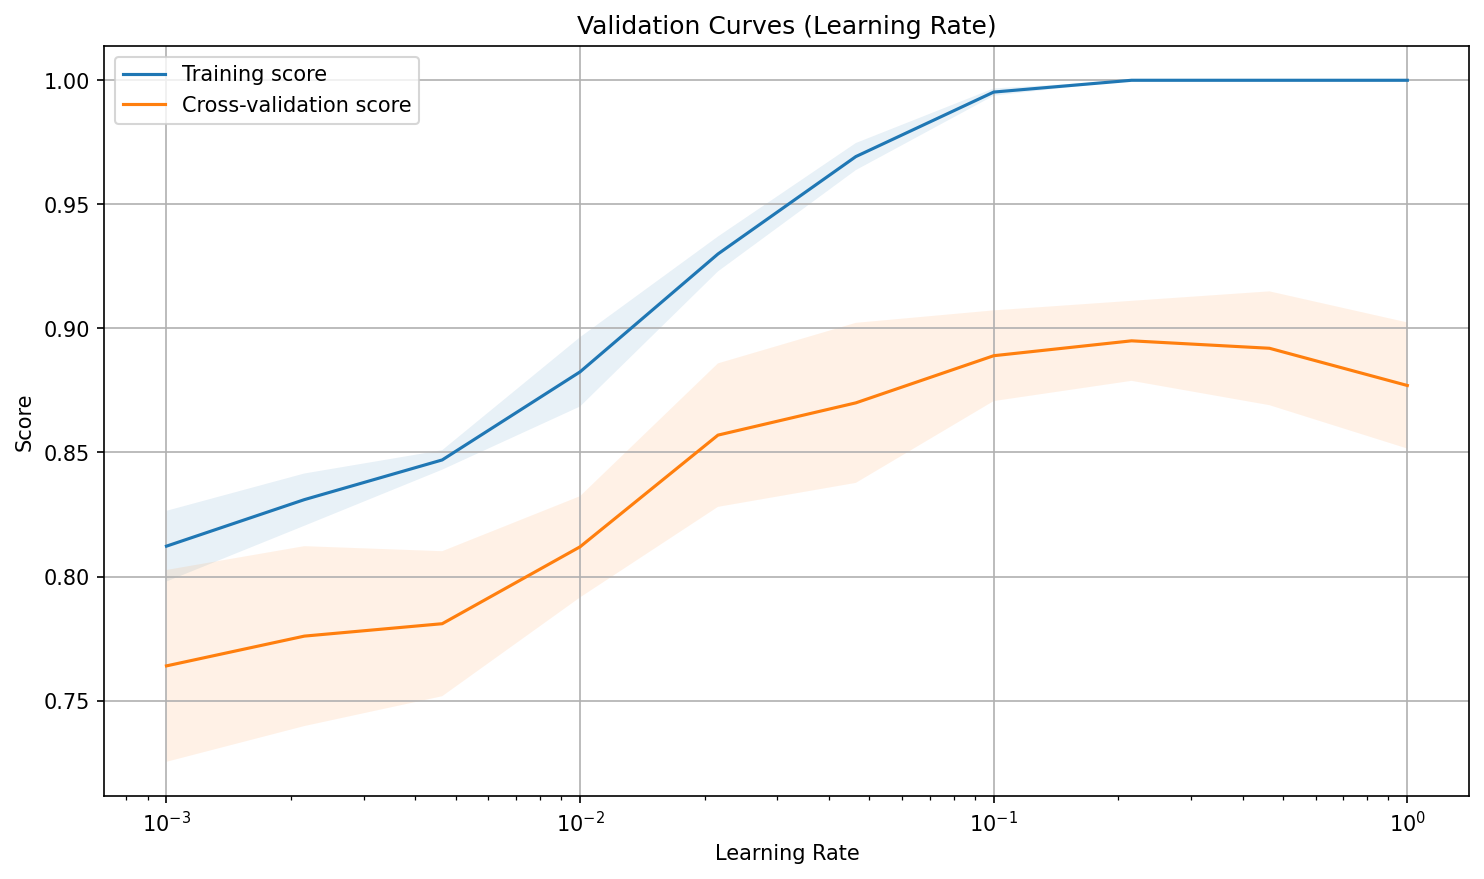
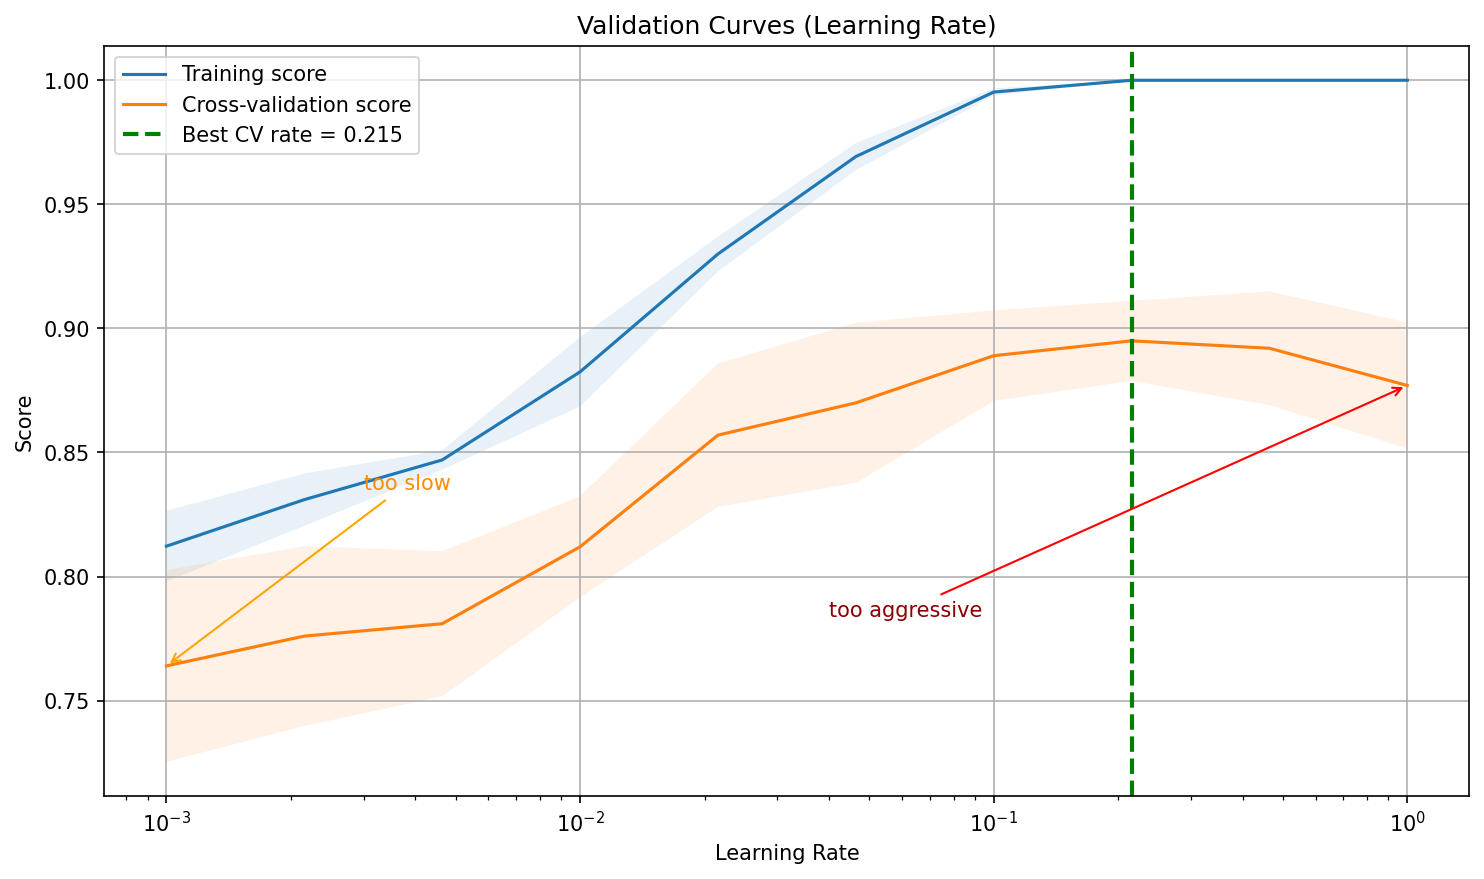
Add visual markers to model evaluation charts

diff --git a/docs/5-ml-fundamentals/5.5-model-eval/generate_model_selection_outputs.py b/docs/5-ml-fundamentals/5.5-model-eval/generate_model_selection_outputs.py
@@ -62,6 +62,11 @@ def plot_decision_boundary(model, X, y, filename):
     plt.figure(figsize=(10, 8))
     plt.contourf(xx, yy, Z, alpha=0.4, cmap='RdYlBu')
     scatter = plt.scatter(X_2d[:, 0], X_2d[:, 1], c=y, alpha=0.8, cmap='RdYlBu', edgecolors='black')
+    plt.annotate('straight boundary\n(linear model limit)', xy=(0.55, 0.55),
+                 xycoords='axes fraction', xytext=(0.08, 0.88),
+                 textcoords='axes fraction',
+                 arrowprops=dict(arrowstyle='->', color='black'),
+                 bbox=dict(boxstyle='round,pad=0.3', fc='white', alpha=0.85))
     plt.xlabel('Feature 1')
     plt.ylabel('Feature 2')
     plt.title('Linear Model Decision Boundary')
@@ -90,11 +95,18 @@ def plot_feature_importance(model, feature_names, filename):
     plt.title('Feature Importance (Random Forest)', fontsize=14, fontweight='bold')
     bars = plt.bar(range(len(importances)), importances[indices], 
                    color='skyblue', edgecolor='navy', alpha=0.7)
+    bars[0].set_color('tab:green')
+    plt.axhline(0.05, color='gray', linestyle='--', linewidth=1,
+                label='Low-importance guide')
+    plt.annotate('top feature', xy=(0, importances[indices][0]),
+                 xytext=(1.2, importances[indices][0] - 0.018),
+                 arrowprops=dict(arrowstyle='->', color='green'), color='darkgreen')
     plt.xticks(range(len(importances)), 
                [f'Feature {i+1}' for i in indices], 
                rotation=45, ha='right')
     plt.xlabel('Features')
     plt.ylabel('Importance')
+    plt.legend()
     plt.grid(True, alpha=0.3, axis='y')
     
     # Add value labels on bars
@@ -135,6 +147,12 @@ def plot_learning_curve(model, X, y, filename):
     plt.plot(train_sizes, val_mean, 'o-', label='Cross-validation score', color='red', linewidth=2)
     plt.fill_between(train_sizes, train_mean - train_std, train_mean + train_std, alpha=0.2, color='blue')
     plt.fill_between(train_sizes, val_mean - val_std, val_mean + val_std, alpha=0.2, color='red')
+    final_gap = train_mean[-1] - val_mean[-1]
+    plt.scatter([train_sizes[-1]], [train_mean[-1]], color='red', s=60, zorder=5)
+    plt.scatter([train_sizes[-1]], [val_mean[-1]], color='red', s=60, zorder=5)
+    plt.annotate(f'final gap ≈ {final_gap:.2f}', xy=(train_sizes[-1], val_mean[-1]),
+                 xytext=(train_sizes[-4], val_mean[-1] - 0.08),
+                 arrowprops=dict(arrowstyle='->', color='red'), color='darkred')
     plt.xlabel('Training Examples')
     plt.ylabel('Score')
     plt.title('Learning Curve - Neural Network')
@@ -162,10 +180,17 @@ def compare_models(models, X_train, X_test, y_train, y_test, filename):
     bars = plt.bar(list(results.keys()), list(results.values()), 
                    color=['lightblue', 'lightgreen', 'lightcoral'],
                    edgecolor='black', alpha=0.8)
+    best_name = max(results, key=results.get)
+    for bar, name in zip(bars, results.keys()):
+        if name == best_name:
+            bar.set_color('tab:green')
+    plt.axhline(results[best_name], color='green', linestyle='--', linewidth=2,
+                label=f'Selected: {best_name}')
     plt.xlabel('Model')
     plt.ylabel('Accuracy')
     plt.title('Model Comparison', fontsize=14, fontweight='bold')
     plt.xticks(rotation=0)
+    plt.legend()
     plt.grid(True, alpha=0.3, axis='y')
     
     # Add value labels on bars
@@ -269,6 +294,13 @@ def model_selection_process(X, y):
         axes[idx].plot(train_sizes, val_mean, 'o-', label='Cross-validation score', color='red')
         axes[idx].fill_between(train_sizes, train_mean - train_std, train_mean + train_std, alpha=0.2, color='blue')
         axes[idx].fill_between(train_sizes, val_mean - val_std, val_mean + val_std, alpha=0.2, color='red')
+        final_gap = train_mean[-1] - val_mean[-1]
+        axes[idx].scatter([train_sizes[-1]], [train_mean[-1]], color='red', s=40, zorder=5)
+        axes[idx].scatter([train_sizes[-1]], [val_mean[-1]], color='red', s=40, zorder=5)
+        axes[idx].annotate(f'gap {final_gap:.2f}', xy=(train_sizes[-1], val_mean[-1]),
+                           xytext=(train_sizes[-5], val_mean[-1] - 0.08),
+                           arrowprops=dict(arrowstyle='->', color='red'),
+                           color='darkred', fontsize=8)
         axes[idx].set_xlabel('Training Examples')
         axes[idx].set_ylabel('Score')
         axes[idx].set_title(f'Learning Curve - {name}')

diff --git a/docs/5-ml-fundamentals/5.5-model-eval/generate_visualizations.py b/docs/5-ml-fundamentals/5.5-model-eval/generate_visualizations.py
@@ -133,9 +133,17 @@ def generate_hp_tuning_visualizations():
 
     plt.figure(figsize=(10, 6))
     plt.plot(param_range, grid_scores, "bo-", alpha=0.6)
+    best_idx = np.argmax(grid_scores)
+    plt.axvline(param_range[best_idx], color="green", linestyle="--", linewidth=2,
+                label=f"Best grid value = {param_range[best_idx]:.2f}")
+    plt.scatter(param_range[best_idx], grid_scores[best_idx], s=120, color="green", zorder=5)
+    plt.annotate("best tried point", xy=(param_range[best_idx], grid_scores[best_idx]),
+                 xytext=(param_range[best_idx] + 1.0, grid_scores[best_idx] - 0.15),
+                 arrowprops=dict(arrowstyle="->", color="green"), color="darkgreen")
     plt.xlabel("Hyperparameter Value")
     plt.ylabel("Validation Score")
     plt.title("Grid Search Results")
+    plt.legend()
     plt.grid(True)
     plt.tight_layout()
     plt.savefig("assets/grid_search_results.png")
@@ -150,9 +158,16 @@ def generate_hp_tuning_visualizations():
 
     plt.figure(figsize=(10, 6))
     plt.scatter(random_params, random_scores, c="red", alpha=0.6)
+    best_idx = np.argmax(random_scores)
+    plt.scatter(random_params[best_idx], random_scores[best_idx], s=140,
+                color="green", edgecolor="black", zorder=5, label="Best sampled point")
+    plt.annotate("best random draw", xy=(random_params[best_idx], random_scores[best_idx]),
+                 xytext=(random_params[best_idx] + 1.0, random_scores[best_idx] - 0.18),
+                 arrowprops=dict(arrowstyle="->", color="green"), color="darkgreen")
     plt.xlabel("Hyperparameter Value")
     plt.ylabel("Validation Score")
     plt.title("Random Search Results")
+    plt.legend()
     plt.grid(True)
     plt.tight_layout()
     plt.savefig("assets/random_search_results.png")
@@ -170,6 +185,12 @@ def generate_hp_tuning_visualizations():
         x, mean - 2 * std, mean + 2 * std, color="b", alpha=0.2, label="Uncertainty"
     )
     plt.scatter(x[::10], mean[::10], c="red", alpha=0.6, label="Observations")
+    next_idx = np.argmax(mean + 2 * std)
+    plt.axvline(x[next_idx], color="green", linestyle="--", linewidth=2,
+                label="Next promising trial")
+    plt.annotate("exploit high mean\n+ uncertainty", xy=(x[next_idx], mean[next_idx]),
+                 xytext=(x[next_idx] + 1.0, mean[next_idx] - 0.25),
+                 arrowprops=dict(arrowstyle="->", color="green"), color="darkgreen")
     plt.xlabel("Hyperparameter Value")
     plt.ylabel("Objective")
     plt.title("Bayesian Optimization")

diff --git a/docs/5-ml-fundamentals/5.5-model-eval/validation-curves.md b/docs/5-ml-fundamentals/5.5-model-eval/validation-curves.md
@@ -70,6 +70,17 @@ plt.plot(param_range, train_mean, label='Training score')
 plt.plot(param_range, val_mean, label='Cross-validation score')
 plt.fill_between(param_range, train_mean - train_std, train_mean + train_std, alpha=0.1)
 plt.fill_between(param_range, val_mean - val_std, val_mean + val_std, alpha=0.1)
+best_idx = np.argmax(val_mean)
+best_depth = param_range[best_idx]
+plt.axvline(best_depth, color='green', linestyle='--', linewidth=2,
+            label=f'Best CV depth = {best_depth}')
+plt.axvspan(param_range[0], best_depth - 0.5, color='orange', alpha=0.08)
+plt.axvspan(best_depth + 0.5, param_range[-1], color='red', alpha=0.06)
+plt.annotate('underfit region', xy=(1.4, val_mean[0]), xytext=(1.2, val_mean.max() - 0.08),
+             arrowprops=dict(arrowstyle='->', color='orange'), color='darkorange')
+plt.annotate('large train-CV gap', xy=(param_range[-1], val_mean[-1]),
+             xytext=(param_range[-4], val_mean.min() + 0.02),
+             arrowprops=dict(arrowstyle='->', color='red'), color='darkred')
 plt.xlabel('Max Depth')
 plt.ylabel('Score')
 plt.title('Validation Curves (Model Complexity)')
@@ -140,6 +151,16 @@ plt.semilogx(param_range, train_mean, label='Training score')
 plt.semilogx(param_range, val_mean, label='Cross-validation score')
 plt.fill_between(param_range, train_mean - train_std, train_mean + train_std, alpha=0.1)
 plt.fill_between(param_range, val_mean - val_std, val_mean + val_std, alpha=0.1)
+best_idx = np.argmax(val_mean)
+best_c = param_range[best_idx]
+plt.axvline(best_c, color='green', linestyle='--', linewidth=2,
+            label=f'Best CV C = {best_c:g}')
+plt.annotate('too much regularization', xy=(param_range[0], val_mean[0]),
+             xytext=(param_range[0] * 3, val_mean.max() - 0.10),
+             arrowprops=dict(arrowstyle='->', color='orange'), color='darkorange')
+plt.annotate('weak regularization', xy=(param_range[-1], val_mean[-1]),
+             xytext=(param_range[-1] / 300, val_mean.min() + 0.03),
+             arrowprops=dict(arrowstyle='->', color='red'), color='darkred')
 plt.xlabel('C (Inverse Regularization Strength)')
 plt.ylabel('Score')
 plt.title('Validation Curves (Regularization)')
@@ -210,6 +231,16 @@ plt.semilogx(param_range, train_mean, label='Training score')
 plt.semilogx(param_range, val_mean, label='Cross-validation score')
 plt.fill_between(param_range, train_mean - train_std, train_mean + train_std, alpha=0.1)
 plt.fill_between(param_range, val_mean - val_std, val_mean + val_std, alpha=0.1)
+best_idx = np.argmax(val_mean)
+best_lr = param_range[best_idx]
+plt.axvline(best_lr, color='green', linestyle='--', linewidth=2,
+            label=f'Best CV rate = {best_lr:.3f}')
+plt.annotate('too slow', xy=(param_range[0], val_mean[0]),
+             xytext=(param_range[0] * 3, val_mean.max() - 0.06),
+             arrowprops=dict(arrowstyle='->', color='orange'), color='darkorange')
+plt.annotate('too aggressive', xy=(param_range[-1], val_mean[-1]),
+             xytext=(param_range[-1] / 25, val_mean.min() + 0.02),
+             arrowprops=dict(arrowstyle='->', color='red'), color='darkred')
 plt.xlabel('Learning Rate')
 plt.ylabel('Score')
 plt.title('Validation Curves (Learning Rate)')
@@ -370,6 +401,16 @@ plt.plot(param_range, train_mean, label='Training score')
 plt.plot(param_range, val_mean, label='Cross-validation score')
 plt.fill_between(param_range, train_mean - train_std, train_mean + train_std, alpha=0.1)
 plt.fill_between(param_range, val_mean - val_std, val_mean + val_std, alpha=0.1)
+best_idx = np.argmax(val_mean)
+best_depth = param_range[best_idx]
+plt.axvline(best_depth, color='green', linestyle='--', linewidth=2,
+            label=f'Best CV depth = {best_depth}')
+plt.annotate('choose near this peak', xy=(best_depth, val_mean[best_idx]),
+             xytext=(best_depth + 2, val_mean[best_idx] - 0.08),
+             arrowprops=dict(arrowstyle='->', color='green'), color='darkgreen')
+plt.annotate('extra depth adds variance', xy=(param_range[-1], val_mean[-1]),
+             xytext=(best_depth + 4, val_mean.min() + 0.03),
+             arrowprops=dict(arrowstyle='->', color='red'), color='darkred')
 plt.xlabel('Max Depth')
 plt.ylabel('Accuracy')
 plt.title('Validation Curves for Credit Risk Prediction')

diff --git a/docs/5-ml-fundamentals/5.5-model-eval/model-selection.md b/docs/5-ml-fundamentals/5.5-model-eval/model-selection.md
@@ -125,6 +125,11 @@ def plot_decision_boundary(model, X, y):
     plt.figure(figsize=(10, 8))
     plt.contourf(xx, yy, Z, alpha=0.4)
     plt.scatter(X_2d[:, 0], X_2d[:, 1], c=y, alpha=0.8)
+    plt.annotate('straight boundary\n(linear model limit)', xy=(0.55, 0.55),
+                 xycoords='axes fraction', xytext=(0.08, 0.88),
+                 textcoords='axes fraction',
+                 arrowprops=dict(arrowstyle='->', color='black'),
+                 bbox=dict(boxstyle='round,pad=0.3', fc='white', alpha=0.85))
     plt.xlabel('Feature 1')
     plt.ylabel('Feature 2')
     plt.title('Decision Boundary')
@@ -196,10 +201,17 @@ def plot_feature_importance(model, feature_names):
 
     plt.figure(figsize=(10, 6))
     plt.title('Feature Importance')
-    plt.bar(range(len(importances)), importances[indices])
+    bars = plt.bar(range(len(importances)), importances[indices])
     plt.xticks(range(len(importances)),
                [f'Feature {i+1}' for i in indices],
                rotation=45)
+    bars[0].set_color('tab:green')
+    plt.axhline(0.05, color='gray', linestyle='--', linewidth=1,
+                label='Low-importance guide')
+    plt.annotate('top feature', xy=(0, importances[indices][0]),
+                 xytext=(1.2, importances[indices][0] - 0.018),
+                 arrowprops=dict(arrowstyle='->', color='green'), color='darkgreen')
+    plt.legend()
     plt.tight_layout()
     plt.savefig('assets/feature_importance.png')
     plt.show()
@@ -281,6 +293,12 @@ def plot_learning_curve(model, X, y):
     plt.plot(train_sizes, val_mean, label='Cross-validation score')
     plt.fill_between(train_sizes, train_mean - train_std, train_mean + train_std, alpha=0.1)
     plt.fill_between(train_sizes, val_mean - val_std, val_mean + val_std, alpha=0.1)
+    final_gap = train_mean[-1] - val_mean[-1]
+    plt.scatter([train_sizes[-1]], [train_mean[-1]], color='red', s=60, zorder=5)
+    plt.scatter([train_sizes[-1]], [val_mean[-1]], color='red', s=60, zorder=5)
+    plt.annotate(f'final gap ≈ {final_gap:.2f}', xy=(train_sizes[-1], val_mean[-1]),
+                 xytext=(train_sizes[-4], val_mean[-1] - 0.08),
+                 arrowprops=dict(arrowstyle='->', color='red'), color='darkred')
     plt.xlabel('Training Examples')
     plt.ylabel('Score')
     plt.title('Learning Curve')
@@ -346,11 +364,22 @@ def compare_models(models, X_train, X_eval, y_train, y_eval, label="Validation")
 
     # Plot comparison
     plt.figure(figsize=(10, 6))
-    plt.bar(results.keys(), results.values())
+    bars = plt.bar(results.keys(), results.values())
+    best_name = max(results, key=results.get)
+    for bar, name in zip(bars, results.keys()):
+        height = bar.get_height()
+        plt.text(bar.get_x() + bar.get_width() / 2, height + 0.01,
+                 f'{height:.3f}', ha='center', va='bottom')
+        if name == best_name:
+            bar.set_color('tab:green')
+    plt.axhline(results[best_name], color='green', linestyle='--', linewidth=2,
+                label=f'Selected: {best_name}')
     plt.xlabel('Model')
     plt.ylabel(f'{label} Accuracy')
     plt.title(f'Model Comparison ({label})')
     plt.xticks(rotation=45)
+    plt.ylim(0, 1.08)
+    plt.legend()
     plt.tight_layout()
     plt.savefig('assets/model_comparison.png')
     plt.show()

diff --git a/docs/5-ml-fundamentals/5.5-model-eval/learning-curves.md b/docs/5-ml-fundamentals/5.5-model-eval/learning-curves.md
@@ -95,6 +95,12 @@ plt.plot(train_sizes, train_mean, label='Training score')
 plt.plot(train_sizes, val_mean, label='Cross-validation score')
 plt.fill_between(train_sizes, train_mean - train_std, train_mean + train_std, alpha=0.1)
 plt.fill_between(train_sizes, val_mean - val_std, val_mean + val_std, alpha=0.1)
+final_gap = train_mean[-1] - val_mean[-1]
+plt.scatter([train_sizes[-1]], [val_mean[-1]], color='green', s=80, zorder=5,
+            label='Final CV score')
+plt.annotate(f'final gap ≈ {final_gap:.2f}', xy=(train_sizes[-1], val_mean[-1]),
+             xytext=(train_sizes[-4], val_mean[-1] - 0.08),
+             arrowprops=dict(arrowstyle='->', color='green'), color='darkgreen')
 plt.xlabel('Training Examples')
 plt.ylabel('Score')
 plt.title('Learning Curves')
@@ -175,6 +181,11 @@ plt.plot(train_sizes, train_mean, label='Training score')
 plt.plot(train_sizes, val_mean, label='Cross-validation score')
 plt.fill_between(train_sizes, train_mean - train_std, train_mean + train_std, alpha=0.1)
 plt.fill_between(train_sizes, val_mean - val_std, val_mean + val_std, alpha=0.1)
+plt.annotate('large generalization gap', xy=(train_sizes[-1], val_mean[-1]),
+             xytext=(train_sizes[-5], train_mean[-1] - 0.06),
+             arrowprops=dict(arrowstyle='<->', color='red'), color='darkred')
+plt.scatter([train_sizes[-1]], [train_mean[-1]], color='red', s=60, zorder=5)
+plt.scatter([train_sizes[-1]], [val_mean[-1]], color='red', s=60, zorder=5)
 plt.xlabel('Training Examples')
 plt.ylabel('Score')
 plt.title('Overfitting Learning Curves')
@@ -255,6 +266,12 @@ plt.plot(train_sizes, train_mean, label='Training score')
 plt.plot(train_sizes, val_mean, label='Cross-validation score')
 plt.fill_between(train_sizes, train_mean - train_std, train_mean + train_std, alpha=0.1)
 plt.fill_between(train_sizes, val_mean - val_std, val_mean + val_std, alpha=0.1)
+plateau = (train_mean[-1] + val_mean[-1]) / 2
+plt.axhline(plateau, color='red', linestyle='--', linewidth=2,
+            label='Low plateau')
+plt.annotate('both curves stuck low', xy=(train_sizes[-1], plateau),
+             xytext=(train_sizes[-5], plateau + 0.08),
+             arrowprops=dict(arrowstyle='->', color='red'), color='darkred')
 plt.xlabel('Training Examples')
 plt.ylabel('Score')
 plt.title('Underfitting Learning Curves')

diff --git a/docs/5-ml-fundamentals/5.5-model-eval/feature-importance.md b/docs/5-ml-fundamentals/5.5-model-eval/feature-importance.md
@@ -64,8 +64,17 @@ indices = np.argsort(importances)[::-1]
 # Plot feature importances
 plt.figure(figsize=(10, 6))
 plt.title('Feature Importances')
-plt.bar(range(X.shape[1]), importances[indices])
+bars = plt.bar(range(X.shape[1]), importances[indices])
 plt.xticks(range(X.shape[1]), [f'Feature {i}' for i in indices], rotation=45)
+top_pos = 0
+top_feature = indices[0]
+top_importance = importances[indices][0]
+plt.axhline(0.05, color='gray', linestyle='--', linewidth=1, label='Low-importance guide')
+bars[top_pos].set_color('tab:green')
+plt.annotate(f'top driver: Feature {top_feature}', xy=(top_pos, top_importance),
+             xytext=(top_pos + 1.0, top_importance - 0.03),
+             arrowprops=dict(arrowstyle='->', color='green'), color='darkgreen')
+plt.legend()
 plt.tight_layout()
 plt.show()
 {% endhighlight %}
@@ -141,6 +150,12 @@ result = permutation_importance(rf, X_test, y_test, n_repeats=10, random_state=4
 plt.figure(figsize=(10, 6))
 plt.title('Permutation Importances')
 plt.boxplot(result.importances.T, tick_labels=[f'Feature {i}' for i in range(X.shape[1])])
+top_feature = int(np.argmax(result.importances_mean))
+top_drop = result.importances_mean[top_feature]
+plt.axhline(0, color='gray', linestyle='--', linewidth=1)
+plt.annotate(f'largest score drop: Feature {top_feature}', xy=(top_feature + 1, top_drop),
+             xytext=(top_feature + 1.4, top_drop + 0.03),
+             arrowprops=dict(arrowstyle='->', color='green'), color='darkgreen')
 plt.xticks(rotation=45)
 plt.tight_layout()
 plt.show()

diff --git a/docs/5-ml-fundamentals/5.5-model-eval/regularization.md b/docs/5-ml-fundamentals/5.5-model-eval/regularization.md
@@ -293,9 +293,22 @@ for name, pipeline in pipelines.items():
 
 # Plot results
 plt.figure(figsize=(10, 6))
-plt.bar(results.keys(), results.values())
+bars = plt.bar(results.keys(), results.values())
+best_name = max(results, key=results.get)
+best_score = results[best_name]
+for bar in bars:
+    height = bar.get_height()
+    plt.text(bar.get_x() + bar.get_width() / 2, height + 0.01,
+             f'{height:.3f}', ha='center', va='bottom')
+plt.axhline(best_score, color='green', linestyle='--', linewidth=2,
+            label=f'Best: {best_name}')
+plt.annotate('prefer simpler penalty if scores tie', xy=(0, best_score),
+             xytext=(0.15, best_score - 0.08),
+             arrowprops=dict(arrowstyle='->', color='green'), color='darkgreen')
 plt.title('Regularization Comparison')
 plt.ylabel('Accuracy')
+plt.ylim(0, 1.08)
+plt.legend()
 plt.show()
 {% endhighlight %}
 
